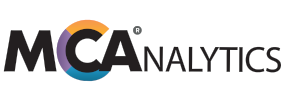
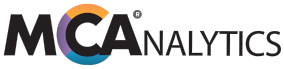
updates

Changed region(s): [[0.0, 0.029, 1.0, 0.9565]]

diff --git a/campaigns/10022021.html b/campaigns/10022021.html
@@ -46,8 +46,8 @@
 <body>
   <table class="main" cellpadding="0" cellspacing="0">
     <tr>
-      <td class="header">
-        <p style="font-size: 20px;color: #fff;text-align: center;"><strong style="color: inherit;">Bounce Back in 2021 with</strong>&nbsp;<img src="https://stepstp-iz.github.io/campaigns/assets/mcaanalytics1.png" width="150" style="margin-bottom: -7px;" alt="MCA Analytics"/>
+      <td class="header" valign="middle">
+        <p style="font-size: 20px;color: #fff;text-align: center;"><strong style="color: inherit; position: relative; bottom: 7px;">Bounce Back in 2021 with</strong>&nbsp;<img src="https://stepstp-iz.github.io/campaigns/assets/mcaanalytics1.png" width="150" alt="MCA Analytics"/>
         </p>
       </td>
     </tr>
